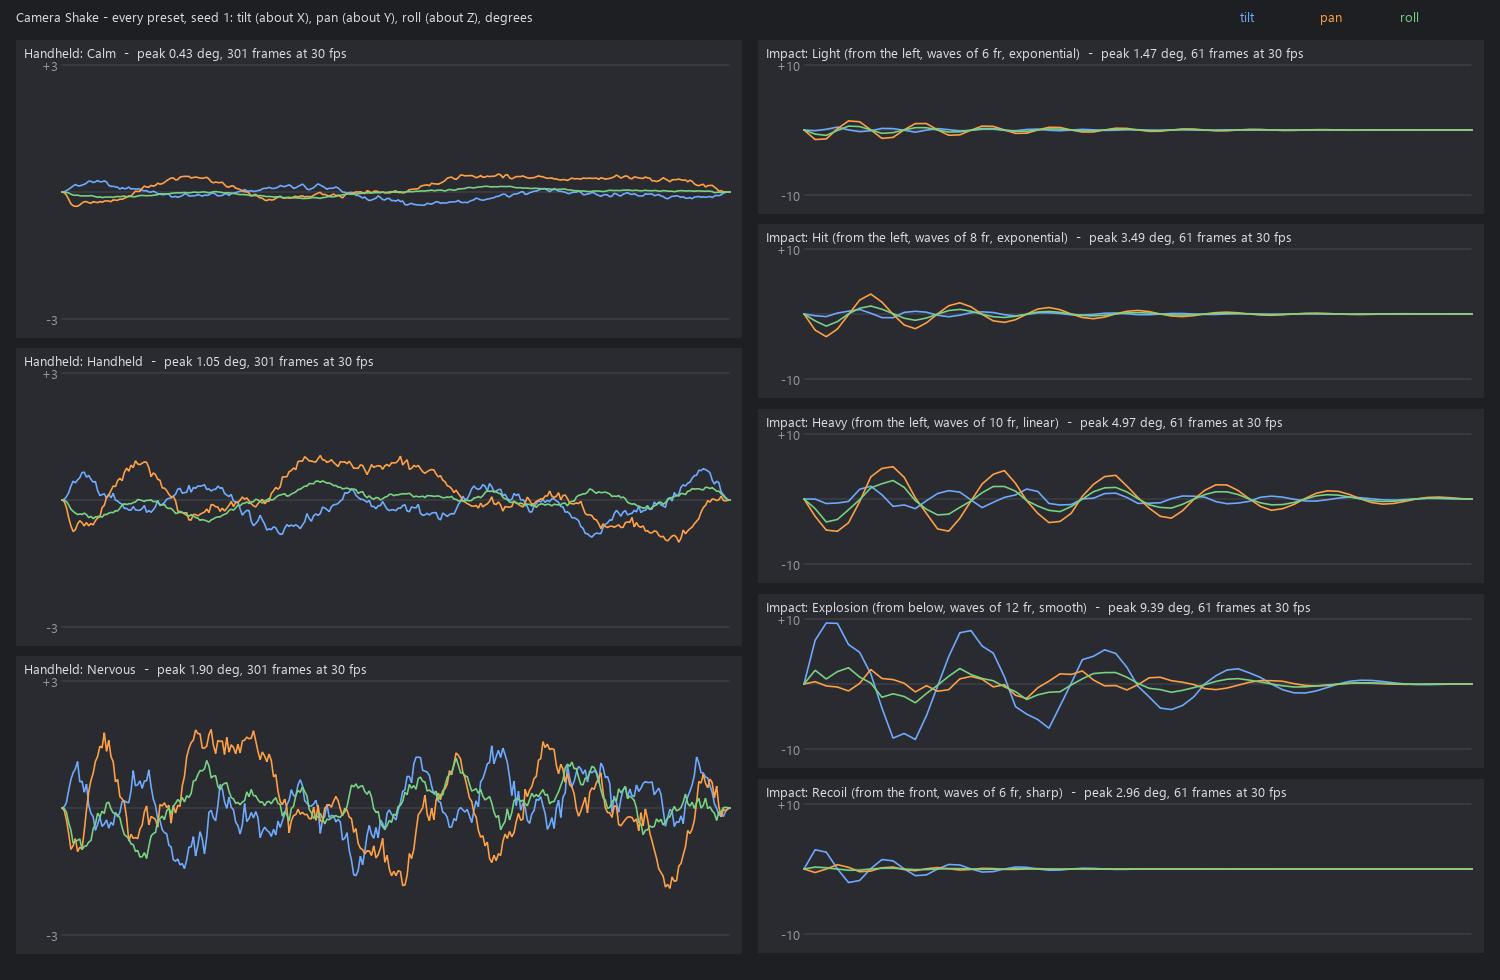
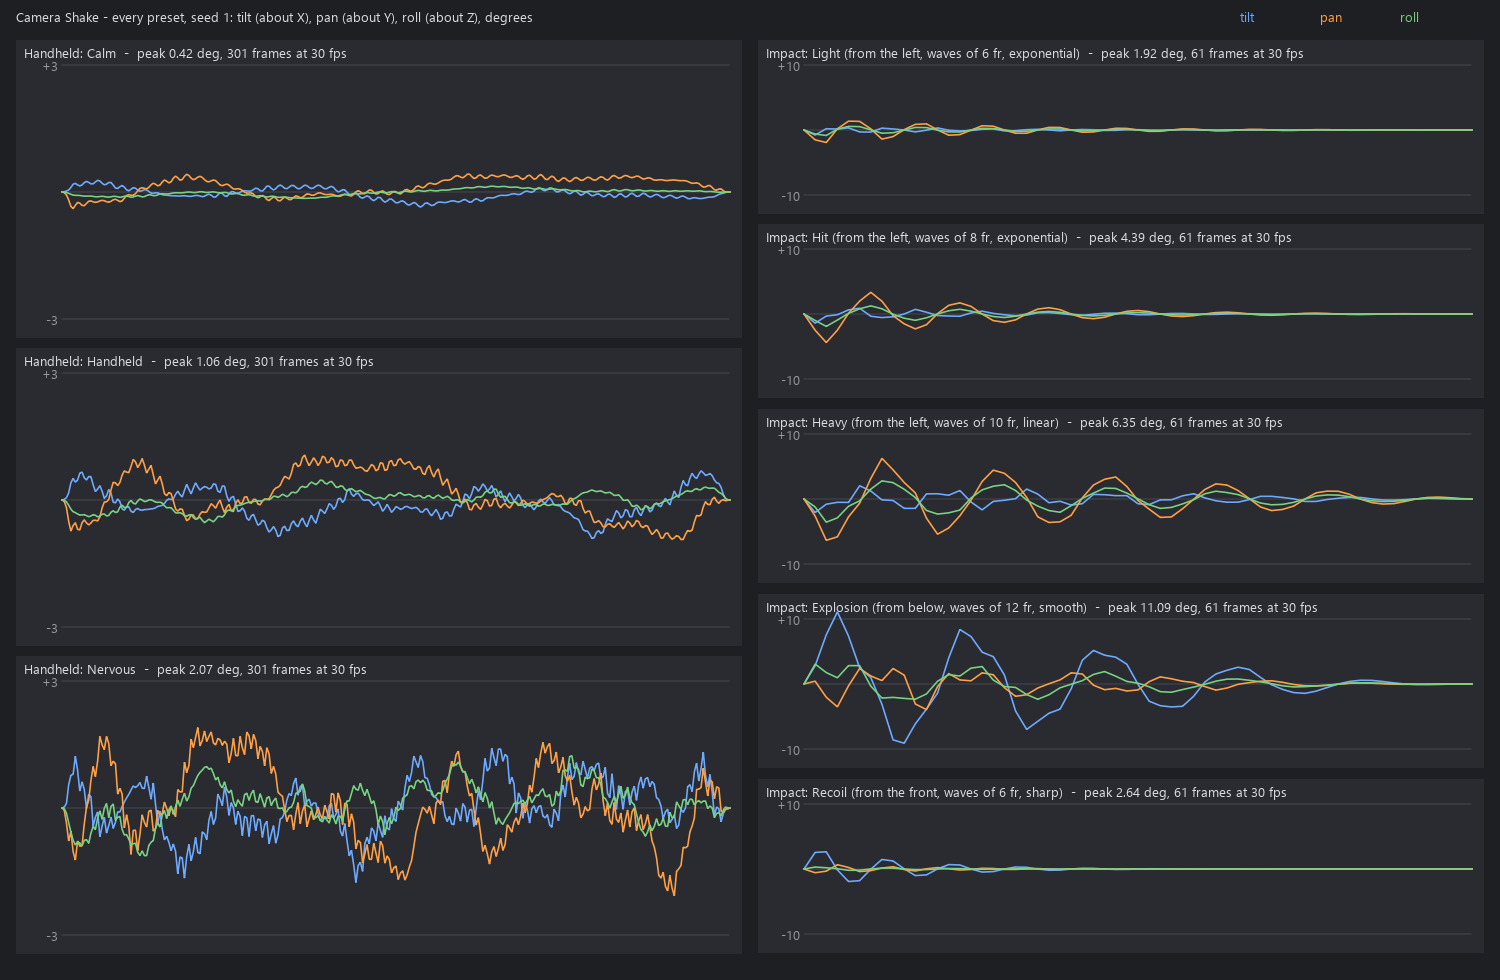
feat(camshake): Jitter, Hz and Rattle, Hz - a tremor that shows its own rate
The jitter was 7 Hz x sqrt(Speed); now its own slider, and the impact's rattle too. Both are a
narrow-band tremor: a broad-band noise sampled at 30 fps cannot swing faster than 7.5 a second.
68 unit tests, verify_camshake.py 29/29.

diff --git a/docs/superpowers/plans/camshake/skeldar_camshake.py b/docs/superpowers/plans/camshake/skeldar_camshake.py
@@ -35,6 +35,7 @@ CONTROLS = {
         ("sway", "Sway, deg", 1.0, 0.0, 6.0),
         ("speed", "Speed", 1.0, 0.25, 4.0),
         ("jitter", "Jitter, deg", 0.12, 0.0, 1.5),
+        ("jitter_hz", "Jitter, Hz", 7.0, 1.0, 15.0),
         ("roll", "Roll", 0.4, 0.0, 1.0),
         ("drift", "Drift, cm", 1.5, 0.0, 15.0),
         ("ease", "Ease, fr", 6.0, 0.0, 60.0),
@@ -44,6 +45,7 @@ CONTROLS = {
         ("push", "Push, cm", 2.0, 0.0, 30.0),
         ("wave", "Wave, fr", 8.0, 2.5, 60.0),
         ("rattle", "Rattle, deg", 1.0, 0.0, 6.0),
+        ("rattle_hz", "Rattle, Hz", 11.0, 2.0, 15.0),
         ("roll", "Roll", 0.4, 0.0, 1.0),
         ("length", "Length, fr", 24.0, 2.0, 240.0),
     ),
@@ -52,20 +54,21 @@ DECAYS = ("Exponential", "Linear", "Smooth", "Sharp")
 AXES = (("tilt_on", "Tilt"), ("pan_on", "Pan"), ("roll_on", "Roll"))   # rotation about X, Y, Z
 PRESETS = {
     "handheld": (
-        ("Calm", {"sway": 0.4, "speed": 0.6, "jitter": 0.05, "roll": 0.3, "drift": 0.6}),
-        ("Handheld", {"sway": 1.0, "speed": 1.0, "jitter": 0.12, "roll": 0.4, "drift": 1.5}),
-        ("Nervous", {"sway": 1.8, "speed": 1.8, "jitter": 0.3, "roll": 0.5, "drift": 3.0}),
+        ("Calm", {"sway": 0.4, "speed": 0.6, "jitter": 0.05, "jitter_hz": 5.5, "roll": 0.3, "drift": 0.6}),
+        ("Handheld", {"sway": 1.0, "speed": 1.0, "jitter": 0.12, "jitter_hz": 7.0, "roll": 0.4, "drift": 1.5}),
+        ("Nervous", {"sway": 1.8, "speed": 1.8, "jitter": 0.3, "jitter_hz": 9.5, "roll": 0.5, "drift": 3.0}),
     ),
     "impact": (
         ("Light", {"strength": 2.0, "push": 1.0, "wave": 6.0, "decay": "Exponential", "rattle": 0.6,
-                   "roll": 0.4}),
+                   "rattle_hz": 12.0, "roll": 0.4}),
         ("Hit", {"strength": 4.0, "push": 2.0, "wave": 8.0, "decay": "Exponential", "rattle": 1.0,
-                 "roll": 0.4}),
-        ("Heavy", {"strength": 6.0, "push": 4.0, "wave": 10.0, "decay": "Linear", "rattle": 1.6, "roll": 0.5}),
+                 "rattle_hz": 11.0, "roll": 0.4}),
+        ("Heavy", {"strength": 6.0, "push": 4.0, "wave": 10.0, "decay": "Linear", "rattle": 1.6,
+                   "rattle_hz": 10.0, "roll": 0.5}),
         ("Explosion", {"strength": 9.0, "push": 8.0, "wave": 12.0, "decay": "Smooth", "rattle": 3.0,
-                       "roll": 0.6, "direction": "Below"}),
+                       "rattle_hz": 8.0, "roll": 0.6, "direction": "Below"}),
         ("Recoil", {"strength": 3.0, "push": 2.0, "wave": 6.0, "decay": "Sharp", "rattle": 0.4,
-                    "roll": 0.2, "direction": "Front"}),
+                    "rattle_hz": 12.0, "roll": 0.2, "direction": "Front"}),
     ),
 }
 DEFAULT_PRESET = {"handheld": "Handheld", "impact": "Hit"}
@@ -175,6 +178,27 @@ def fractal(seconds, seed, stream, hz, octaves, gain=0.5, fps=None):
     return total / math.sqrt(norm) if norm else total
 
 
+TREMOR_SWELL = 0.45      # how far a tremor's amplitude swells and fades about 1 (RMS)
+TREMOR_WANDER = 0.6      # radians its phase wanders (RMS)
+
+
+def tremor(seconds, seed, stream, hz):
+    """A narrow-band shake of unit RMS: a sine at `hz` whose amplitude swells and fades and whose phase
+    wanders, both slowly - a hand's tremor is a rhythm, not a hiss. Measured, a broad-band noise sampled once
+    a frame cannot swing more than a quarter of the frame rate (white noise: 7.5 Hz at 30 fps); a sine shows
+    its own rate up to the frame rate's limit."""
+    s = np.atleast_1d(np.asarray(seconds, float))
+    if hz <= 0.0 or s.size == 0:
+        return np.zeros_like(s)
+    slow = max(hz / 7.0, 0.1)
+    base = 100000 + 4 * int(stream)
+    swell = 1.0 + TREMOR_SWELL * noise(s, seed, base + 1, slow)
+    wander = TREMOR_WANDER * noise(s, seed, base + 2, 0.5 * slow)
+    start = np.random.default_rng([int(seed), base + 3]).uniform(0.0, 2.0 * math.pi)
+    return swell * np.sin(2.0 * math.pi * hz * s + wander + start) / math.sqrt(
+        (1.0 + TREMOR_SWELL ** 2) / 2.0)
+
+
 def smootherstep(x):
     """0 below 0, 1 above 1, C2 between."""
     x = np.clip(np.asarray(x, float), 0.0, 1.0)
@@ -196,7 +220,6 @@ def _streams(index):
 
 
 SWAY_HZ = 0.25           # the body's drift and the hands' corrections, x Speed
-JITTER_HZ = 7.0          # the hands' tremor, x sqrt(Speed)
 DRIFT_HZ = 0.2           # the camera's own travel, x Speed
 SWAY_AXES = (0.75, 1.0, 1.0)     # tilt, pan, roll (roll x Roll): an operator aims better up-down
 DRIFT_AXES = (0.7, 1.0, 0.4)     # side, bob, push
@@ -210,14 +233,14 @@ def handheld(frames, a, b, fps, s, index=0):
     seed, k = s["seed"], _streams(index)
     speed = s["speed"]
     sway_hz = capped(SWAY_HZ * speed, fps)
-    jitter_hz = capped(JITTER_HZ * math.sqrt(speed), fps)
+    jitter_hz = capped(s["jitter_hz"], fps)       # its own rate: Speed is the body's, not the hands'
     drift_hz = capped(DRIFT_HZ * speed, fps)
     roll = (1.0, 1.0, s["roll"])
     rot = np.zeros((len(f), 3))
     off = np.zeros((len(f), 3))
     for axis in range(3):
         sway = SWAY_AXES[axis] * 0.5 * s["sway"] * fractal(sec, seed, k + axis + 1, sway_hz, 3, fps=fps)
-        jitter = 0.5 * s["jitter"] * noise(sec, seed, k + axis + 4, jitter_hz)
+        jitter = 0.5 * s["jitter"] * tremor(sec, seed, k + axis + 4, jitter_hz)
         rot[:, axis] = roll[axis] * (sway + jitter)
         off[:, axis] = DRIFT_AXES[axis] * 0.5 * s["drift"] * fractal(sec, seed, k + axis + 7, drift_hz, 2,
                                                                        fps=fps)
@@ -230,7 +253,6 @@ def axis_mask(s):
     return np.array([1.0 if s.get(key, True) else 0.0 for key, _ in AXES])
 
 
-RATTLE_HZ = 11.0         # the rattle's top octave, below the frame rate's limit
 WOBBLE_RATE = 1.37       # the perpendicular wobble against the kick
 WOBBLE_SHARE = 0.25
 HITS = {"Below": (0.0, 1.0, 0.0), "Above": (0.0, -1.0, 0.0), "Left": (1.0, 0.0, 0.0),
@@ -320,12 +342,11 @@ def impact(frames, a, b, fps, s, index=0):
     rot[:, 2] = strength * s["roll"] * roll_dir * main
     off = (s["push"] * main)[:, None] * h[None, :]
     sec = tau / float(fps)
-    rattle_hz = capped(RATTLE_HZ, fps)
+    rattle_hz = capped(s["rattle_hz"], fps)
     trauma = envelope(u, s["decay"]) ** 2 * np.clip(tau, 0.0, 1.0)
     roll = (1.0, 1.0, s["roll"])
     for axis in range(3):
-        rot[:, axis] += roll[axis] * 0.5 * s["rattle"] * trauma * fractal(
-            sec, seed, k + axis + 11, rattle_hz / 2.0, 2, fps=fps)
+        rot[:, axis] += roll[axis] * 0.5 * s["rattle"] * trauma * tremor(sec, seed, k + axis + 11, rattle_hz)
     still = (tau <= 0.0) | (u >= 1.0)
     rot[still] = 0.0
     off[still] = 0.0
@@ -832,10 +853,12 @@ def _existing(mode, a, b, uuids):
 def describe(mode, s, a, b, nodes, layer, where="", locked=()):
     names = ", ".join(leaf(node) for node in nodes)
     if mode == "handheld":
-        what = "Handheld: sway %.2f deg, jitter %.2f deg, drift %.1f cm" % (s["sway"], s["jitter"], s["drift"])
+        what = "Handheld: sway %.2f deg, jitter %.2f deg at %g Hz, drift %.1f cm" % (
+            s["sway"], s["jitter"], s["jitter_hz"], s["drift"])
     else:
-        what = "Impact from %s: %.1f deg, waves of %g fr, %s decay, push %.1f cm, rattle %.2f deg" % (
-            SIDES[s["direction"]], s["strength"], s["wave"], s["decay"].lower(), s["push"], s["rattle"])
+        what = "Impact from %s: %.1f deg, waves of %g fr, %s decay, push %.1f cm, rattle %.2f deg at %g Hz" % (
+            SIDES[s["direction"]], s["strength"], s["wave"], s["decay"].lower(), s["push"], s["rattle"],
+            s["rattle_hz"])
     off = [label.lower() for key, label in AXES if not s.get(key, True)]
     if off:
         what += " (no %s)" % ", ".join(off)

diff --git a/tests/test_camshake.py b/tests/test_camshake.py
@@ -121,6 +121,21 @@ class NoiseTests(unittest.TestCase):
         values = cs.fractal(self.seconds(), 2, 1, 0.5, 3, fps=FPS)
         self.assertAlmostEqual(float(np.sqrt(np.mean(values ** 2))), 1.0, delta=0.12)
 
+    def test_tremor_is_unit_rms_and_deterministic(self):
+        values = cs.tremor(self.seconds(), 4, 2, 7.0)
+        self.assertAlmostEqual(float(np.sqrt(np.mean(values ** 2))), 1.0, delta=0.1)
+        self.assertTrue(np.array_equal(values, cs.tremor(self.seconds(), 4, 2, 7.0)))
+        self.assertFalse(np.allclose(values, cs.tremor(self.seconds(), 5, 2, 7.0)))
+
+    def test_tremor_shows_its_rate_in_frames_up_to_the_limit(self):
+        """A broad-band noise sampled at 30 fps tops out at 7.5 swings a second; the tremor does not."""
+        for hz in (3.0, 7.0, 10.0, 12.0):
+            values = cs.tremor(self.seconds(18000), 2, 1, hz)
+            swings = np.count_nonzero(np.diff(np.sign(values)) != 0) / (2.0 * 18000 / FPS)
+            self.assertAlmostEqual(swings, hz, delta=0.1 * hz)
+        broad = cs.noise(self.seconds(18000), 2, 1, 10.0)
+        self.assertLess(np.count_nonzero(np.diff(np.sign(broad)) != 0) / (2.0 * 18000 / FPS), 8.0)
+
     def test_capped_below_nyquist(self):
         self.assertEqual(cs.capped(7.0, 30.0), 7.0)
         self.assertAlmostEqual(cs.capped(20.0, 24.0), 0.42 * 24.0)
@@ -170,7 +185,25 @@ class HandheldTests(unittest.TestCase):
         rot, _ = self.run_it(sway=0.0, jitter=0.4)
         self.assertAlmostEqual(rms2(rot[:, 1]), 0.4, delta=0.06)
         crossings = np.count_nonzero(np.diff(np.sign(rot[:, 1])) != 0) / (4000 / FPS)
-        self.assertGreater(crossings, 1.6 * cs.JITTER_HZ)
+        self.assertGreater(crossings, 1.6 * cs.settings("handheld")["jitter_hz"])
+
+    def rate(self, rot):
+        """Swings a second of the pan: half its zero crossings."""
+        return np.count_nonzero(np.diff(np.sign(rot[:, 1])) != 0) / (2.0 * len(rot) / FPS)
+
+    def test_jitter_hz_sets_the_tremors_rate(self):
+        for hz in (3.0, 9.0):
+            rot, _ = self.run_it(sway=0.0, jitter=0.4, jitter_hz=hz)
+            self.assertAlmostEqual(self.rate(rot), hz, delta=0.2 * hz)
+
+    def test_speed_leaves_the_jitter_alone(self):
+        slow, _ = self.run_it(sway=0.0, jitter=0.4, speed=0.5)
+        fast, _ = self.run_it(sway=0.0, jitter=0.4, speed=3.0)
+        self.assertTrue(np.allclose(slow, fast))
+
+    def test_the_jitter_never_aliases(self):
+        rot, _ = self.run_it(sway=0.0, jitter=0.4, jitter_hz=15.0)
+        self.assertLess(self.rate(rot), 1.2 * cs.NYQUIST_SHARE * FPS)
 
     def test_drift_moves_the_camera_mostly_up_and_down(self):
         _, off = self.run_it(drift=4.0)
@@ -303,6 +336,15 @@ class ImpactTests(unittest.TestCase):
         _, (rot, off) = self.run_it(strength=3.0, direction="Front", push=2.0)
         self.assertGreater(off[2, 2], 1.0)
         self.assertGreater(rot[2, 0], 2.0)
+
+    def test_rattle_hz_sets_the_rattles_rate(self):
+        frames = np.arange(0, 3001)
+        def rate(hz):
+            s = cs.settings("impact", {"strength": 0.0, "push": 0.0, "rattle": 3.0, "rattle_hz": hz,
+                                       "decay": "Linear"})
+            rot = cs.impact(frames, 0, 3000, FPS, s)[0][1:300, 1]
+            return np.count_nonzero(np.diff(np.sign(rot)) != 0) / (2.0 * len(rot) / FPS)
+        self.assertGreater(rate(10.0), 2.0 * rate(3.0))
 
     def test_axes_switch_off_whole(self):
         _, (rot, off) = self.run_it(rattle=2.0, direction="Left", roll=0.5, pan_on=False, roll_on=False)

diff --git a/CLAUDE.md b/CLAUDE.md
@@ -9631,16 +9631,22 @@ reloads itself and opens its window (trap 220); it imports nothing of the plugin
   spline's own mean variance, knots in seeded blocks of 64 so a longer range keeps its start; **5.57 knots a
   cycle** (measured: such a spline crosses zero 0.359 times a knot), so "Hz" means swings a second as a sine's.
   Every frequency below 0.42 x fps; an amplitude is two RMS.
-  - **Handheld**: Sway (a 3-octave fractal from 0.25 Hz x Speed; tilt 0.75, pan 1, roll x Roll), Jitter (7 Hz x
-    sqrt(Speed)), Drift (cm, a 2-octave fractal from 0.2 Hz; side 0.7, bob 1, push 0.4), Ease in and out.
-    Presets Calm / Handheld / Nervous.
+  - **Handheld**: Sway (a 3-octave fractal from 0.25 Hz x Speed; tilt 0.75, pan 1, roll x Roll), Jitter (deg)
+    at **Jitter, Hz** (its own rate since the same evening, «как изменить его частоту?»; Speed is the body's),
+    Drift (cm, a 2-octave fractal from 0.2 Hz; side 0.7, bob 1, push 0.4), Ease in and out. Presets Calm /
+    Handheld / Nervous (5.5 / 7 / 9.5 Hz).
+  - **The jitter and the rattle are a narrow-band `tremor`**: a sine at their Hz whose amplitude swells and
+    fades (0.45 RMS) and whose phase wanders (0.6 rad), both at Hz/7 - a hand's tremor is a rhythm. Trap 238
+    is why it is not the smooth noise: it shows 10 Hz as 10 swings a second at 30 fps (gated to 10 % up to
+    12 Hz) where the noise showed 7.15.
   - **Impact** over `[a, b]` (since the same evening, «нужен параметр который будет отвечать за длину волн и
     тип затухания»): a sine from the hit, **Wave** frames crest to crest (never under 2.38, the alias limit),
     under a **Decay** envelope across the range - Exponential (`e^-4u` brought to 0: a fast fall, a long thin
     tail), Linear, Smooth (`1 - smoothstep`: holds, then fades), Sharp (`(1-u)^6`: gone in the first waves) -
     1 at its first crest (found by a ternary search on the first lobe). It turns the view toward where the hit
     throws it (Below / Above / Left / Right / Front / Random), Push along it, roll for a side hit, a
-    perpendicular wobble at 1.37x the rate, a rattle under the envelope squared; still at `a` (the jolt is
+    perpendicular wobble at 1.37x the rate, a rattle (a tremor at **Rattle, Hz**) under the envelope squared;
+    still at `a` (the jolt is
     `a+1`) and at `b`. Swing and Bounce are gone (an older layer's record re-tunes with Wave 8, Exponential).
     No highlight: the current frame + Length. Presets Light / Hit / Heavy / Explosion / Recoil, each with its
     wave and decay.
@@ -9665,9 +9671,9 @@ reloads itself and opens its window (trap 220); it imports nothing of the plugin
   (`animLayerRefresh`); Undo / Redo show its settings again. Settings remembered per mode
   (`skeldarCamShake_<mode>`, JSON); the picked shake on `sys` (trap 111).
 
-Proof: `tests/test_camshake.py` **62** (the noise, the envelopes, both modes, the waves' period and decay types,
-the axes, the algebra against OpenMaya on every order with rotate axes and joint orients, the window on a fake
-cmds); `verify_camshake.py` **29/29 mayapy standalone** (gate 15: a hit from the left with Pan and Roll off turns
+Proof: `tests/test_camshake.py` **68** (the noise, the tremor's rate in frames, the envelopes, both modes, the
+waves' period and decay types, the axes, the algebra against OpenMaya on every order with rotate axes and joint
+orients, the window on a fake cmds); `verify_camshake.py` **29/29 mayapy standalone** (gate 15: a hit from the left with Pan and Roll off turns
 the camera about its own X only, 2.8e-16 off it): the shake in the camera's own axes on every frame to
 **2.8e-16 deg**, the translation exact, the
 camera's own keys untouched, nothing outside the range at quarter frames, a re-tune keeping the layer, its
@@ -9690,3 +9696,8 @@ range after Apply, the hub card.
 237. **A layer's rotation blend node reads its channel's owner.** `animBlendNodeAdditiveRotation.rotateOrder`
      is connected from the camera's own `rotateOrder`, so a walk upstream of `rotate` meets the camera itself
      and calls it a driver - the first re-tune of every shake was refused. Leave the owner out of the walk.
+238. **A broad-band noise sampled once a frame cannot swing faster than a quarter of the frame rate.** White
+     noise changes sign on half the frames: 7.5 swings a second at 30 fps, 6 at 24. The camera shake's smooth
+     noise asked for 10 Hz showed 7.15, for 7 Hz 6.12 (measured), so a "Jitter, Hz" slider over it did almost
+     nothing above 5. A rhythm (a sine whose amplitude and phase drift slowly) shows its own rate up to the
+     frame rate's limit. Measure a rate on the keyed frames, not on the function.

diff --git a/docs/superpowers/specs/2026-10-13-camera-shake-design.md b/docs/superpowers/specs/2026-10-13-camera-shake-design.md
@@ -177,3 +177,18 @@ Presets now carry a wave and a decay: Light (6 fr, Exponential), Hit (8, Exponen
 Explosion (12, Smooth), Recoil (6, Sharp). An older layer's record (Swing / Bounce) re-tunes with Wave 8,
 Exponential. Proof: 62 unit tests; `verify_camshake.py` 29/29, gate 15 a hit from the left with Pan and Roll off
 turning the camera about its own X only (2.8e-16 off it).
+
+## Addendum: the jitter's and the rattle's own rate (2026-10-13, later)
+
+The animator: «Есть параметр джиттеринга то есть тряски, а как изменить его частоту?» - it was 7 Hz x
+sqrt(Speed), so only Speed moved it, and Speed moves the sway and the drift too. Now:
+- **Jitter, Hz** (handheld, 1..15, default 7; Calm 5.5, Handheld 7, Nervous 9.5) - Speed no longer touches it;
+- **Rattle, Hz** (impact, 2..15, default 11; Light 12, Hit 11, Heavy 10, Explosion 8, Recoil 12);
+- both capped at 0.42 x fps as every rate.
+
+Measured on the way: the smooth noise sampled at 30 fps cannot swing faster than white noise does, 7.5 a second
+(10 Hz showed 7.15, 7 Hz 6.12), so the slider would have done almost nothing above 5 Hz. The jitter and the rattle
+are now a **tremor** - a sine at the rate whose amplitude swells and fades (`1 + 0.45 noise`) and whose phase
+wanders (`0.6 rad x noise`), both at rate/7, unit RMS - which shows its own rate in frames to 10 % up to 12 Hz at
+30 fps. A hand's tremor is narrow-band anyway. Proof: 68 unit tests (the tremor's rate on 30 fps frames, Speed
+leaving the jitter alone, the cap), `verify_camshake.py` 29/29.
